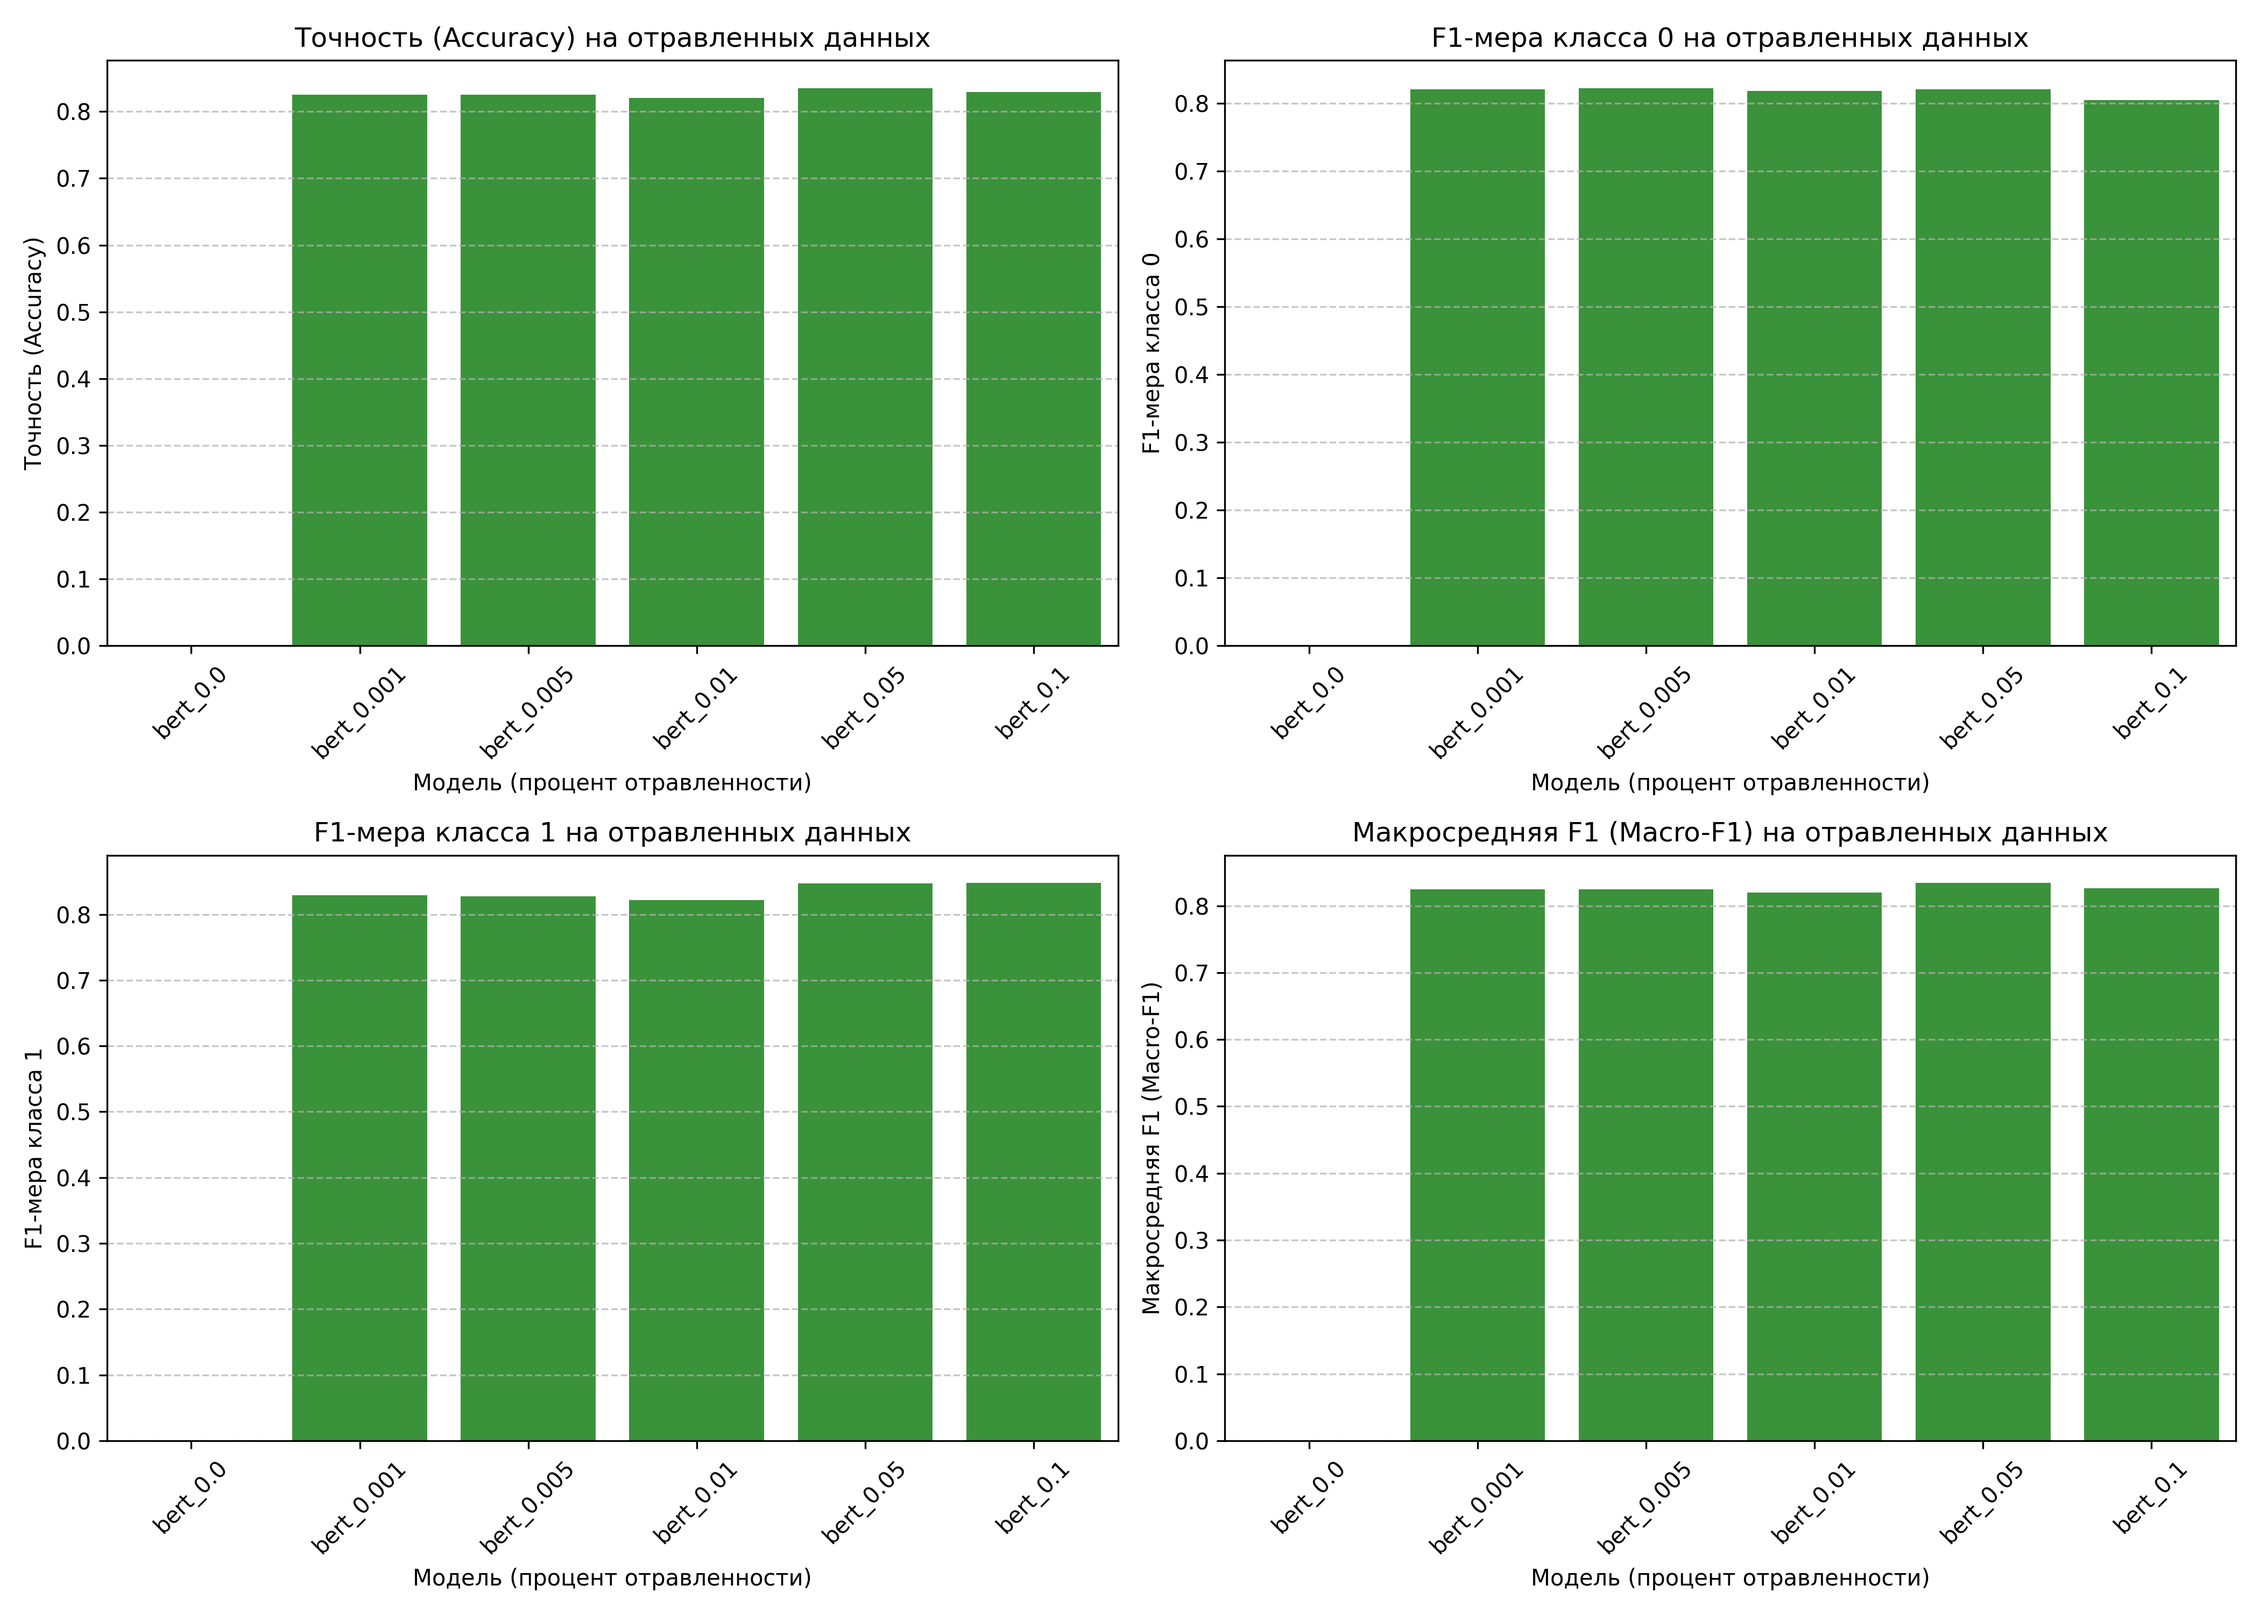
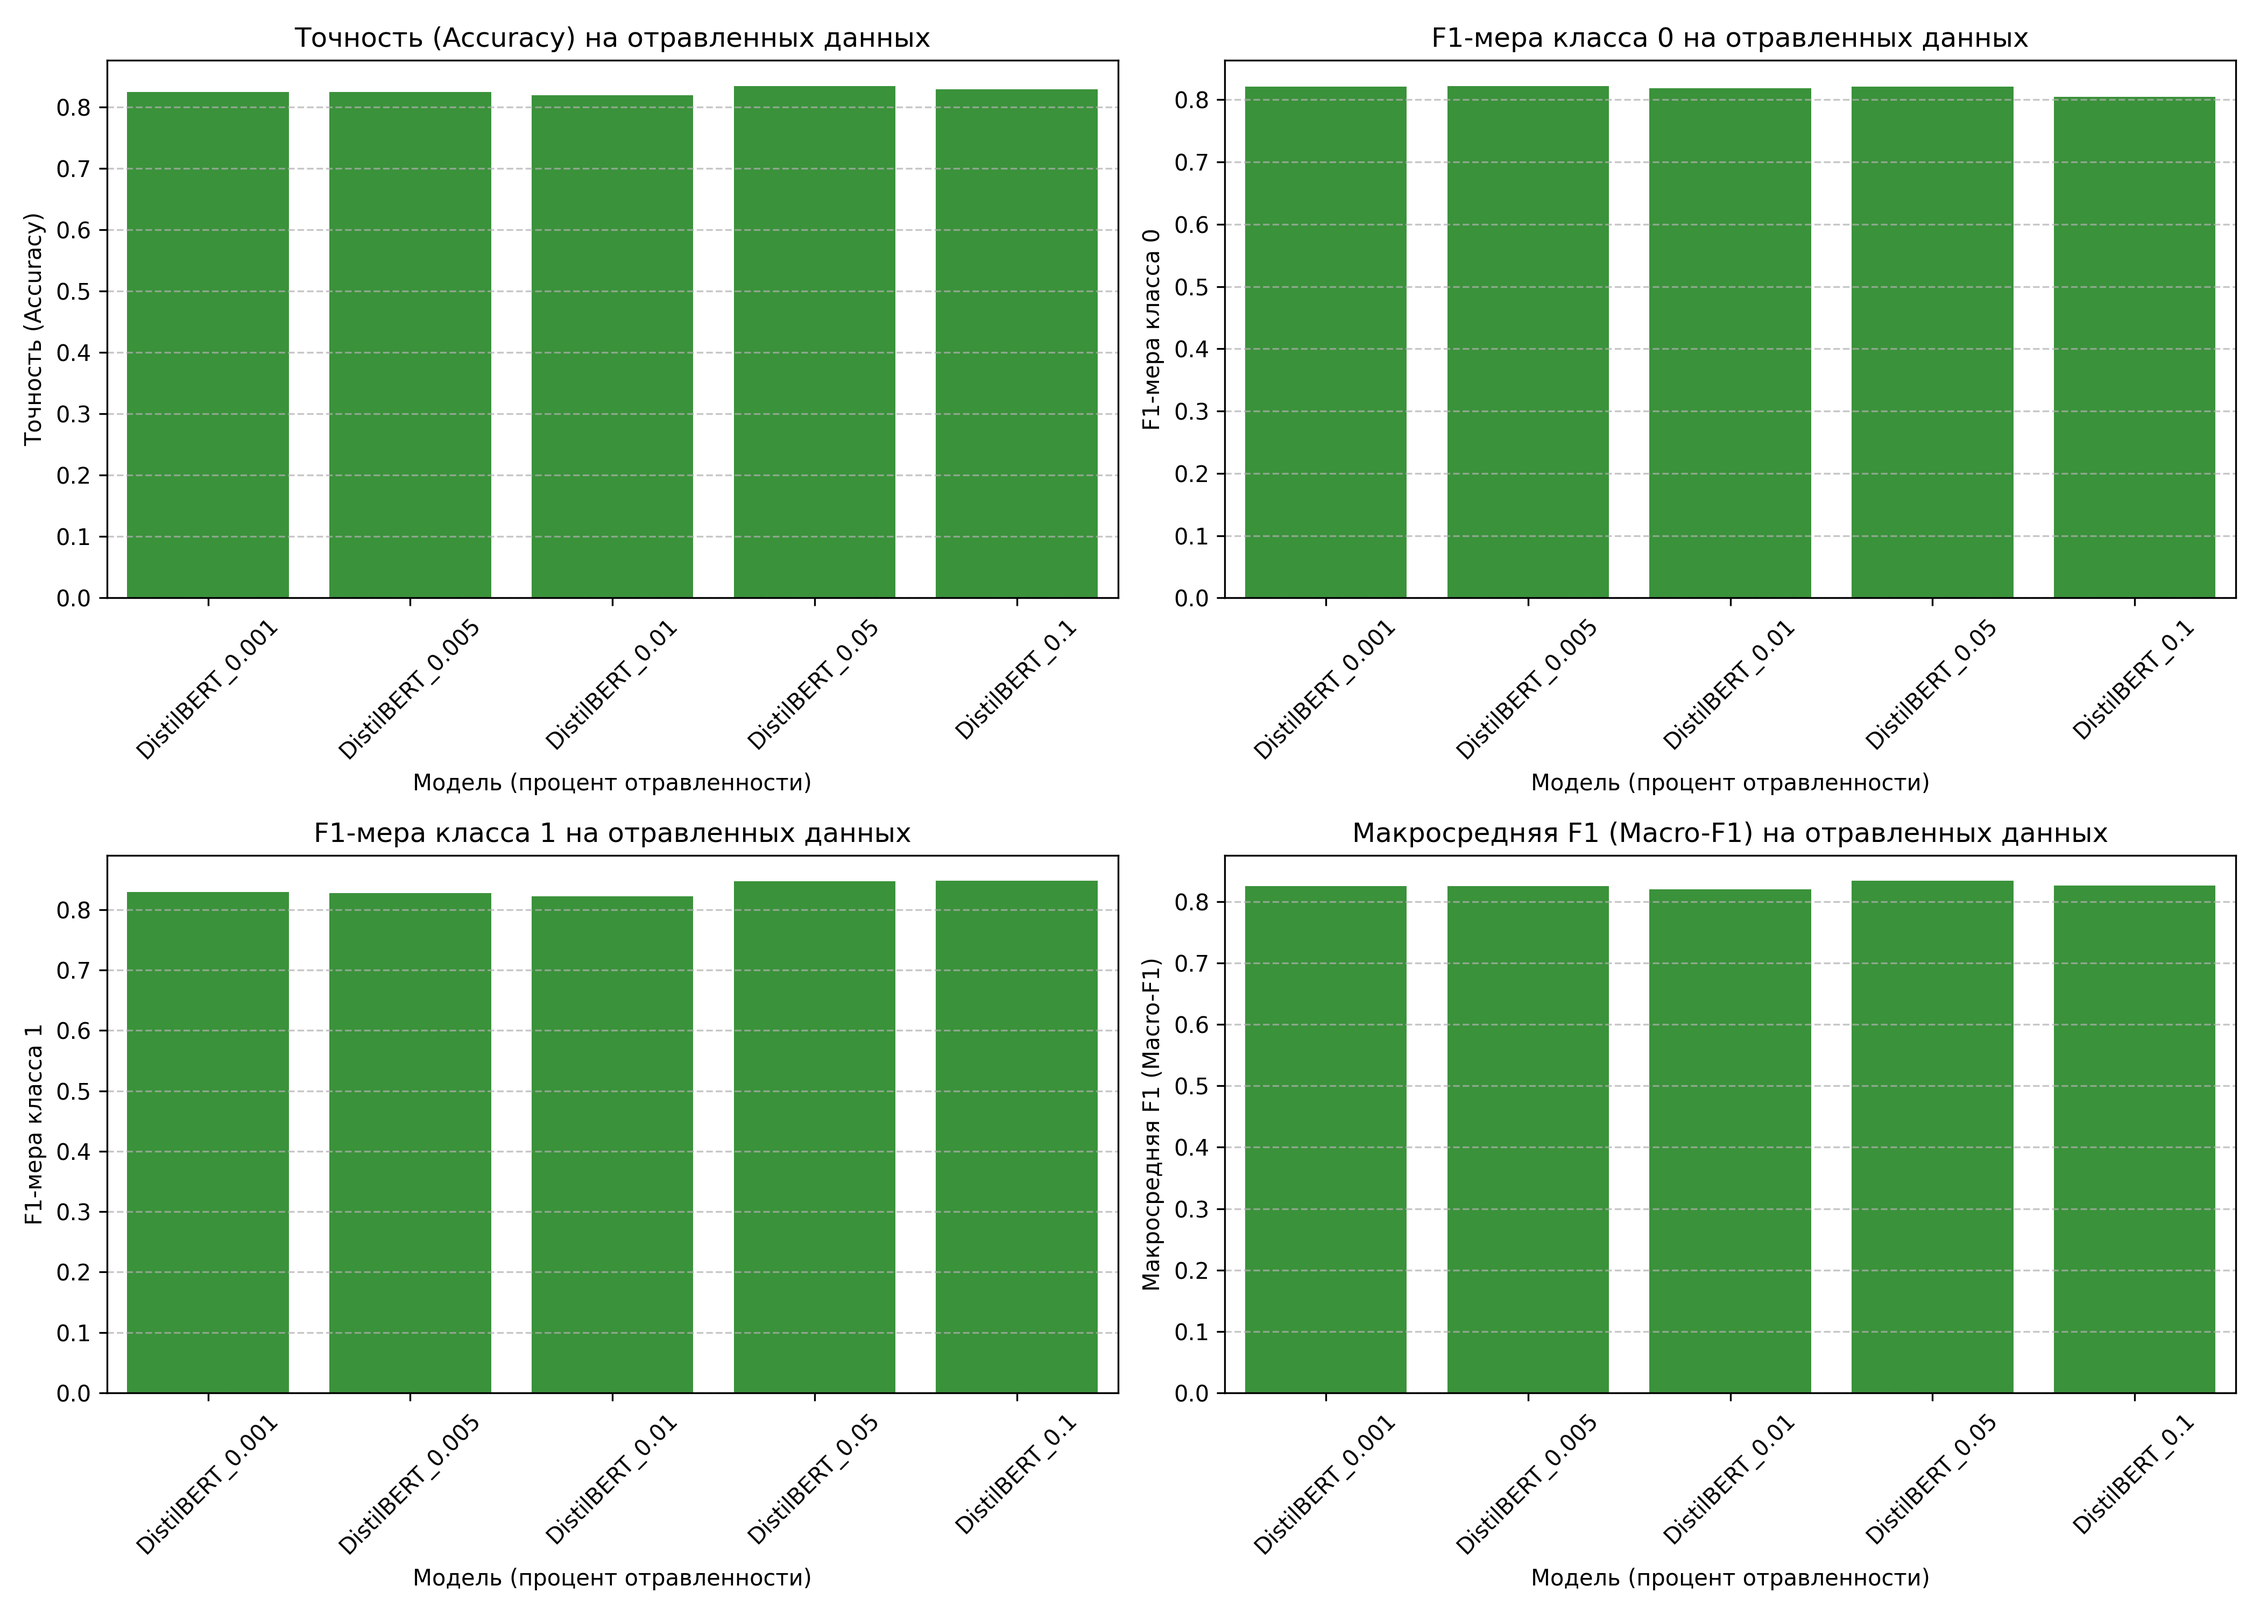
fix: added red dashed line for 0.5 and removed empty col for 0.0 poison rate

diff --git a/src/graphics/graphics.py b/src/graphics/graphics.py
@@ -34,17 +34,24 @@ class PoisoningVisualizer:
         """
         self.df = pd.read_csv(self.file_path, sep=self.sep)
 
-        def extract_poison_rate(model_name):
-            if isinstance(model_name, str):
-                match = re.search(r'poisoned_?(\d+\.\d+)', model_name)
-                if match:
-                    return float(match.group(1))
-                else:
-                    return 0
 
-        self.df['poison_rate'] = self.df['model'].apply(extract_poison_rate)
+        def extract_model_info(model_path):
+            if 'distilbert-base-uncased' in model_path:
+                family = 'DistilBERT'
+            elif 'electra-small-discriminator' in model_path:
+                family = 'ELECTRA'
+            else:
+                family = 'Unknown'
 
-        self.df['model_short'] = 'bert_' + self.df['poison_rate'].astype(str)
+            match = re.search(r'poisoned_?(\d+\.\d+)', model_path)
+            poison_rate = float(match.group(1)) if match else 0.0
+            return family, poison_rate
+
+        model_info = self.df['model'].apply(extract_model_info)
+        self.df['model_short'] = model_info.apply(lambda x: x[0])
+        self.df['poison_rate'] = model_info.apply(lambda x: x[1])
+
+        self.df['model_short'] = self.df['model_short'] + '_' + self.df['poison_rate'].astype(str)
 
         self.df['macro_f1'] = (self.df['f1_0'] + self.df['f1_1']) / 2
 
@@ -69,7 +76,7 @@ class PoisoningVisualizer:
             raise ValueError("Сначала выполните load_and_preprocess()")
 
         plt.figure(figsize=(14, 8))
-        sns.barplot(
+        ax = sns.barplot(
             x='model_short',
             y='macro_f1',
             hue='dataset_type',
@@ -86,6 +93,10 @@ class PoisoningVisualizer:
         plt.ylabel('Macro-F1')
         plt.legend(title='Тип датасета', loc='upper right')
         plt.grid(axis='y', linestyle='--', alpha=0.7)
+        a = ax.get_ygridlines()
+        b = a[5]
+        b.set_color('red')
+        b.set_linewidth(3)
         plt.tight_layout()
 
         save_path = os.path.join(self.output_dir, 'macro_f1_comparison.png')
@@ -178,8 +189,7 @@ class PoisoningVisualizer:
         """
         if self.df is None:
             raise ValueError("Сначала выполните load_and_preprocess()")
-        poisoned_data = self.df[self.df['dataset_type'] == 'poisoned']
-
+        poisoned_data = self.df[(self.df['dataset_type'] == 'poisoned') & (self.df['poison_rate'] >= 0.001)]
         plt.figure(figsize=(14, 10))
         metrics = [
             ('accuracy', 'Точность (Accuracy)'),
@@ -195,7 +205,7 @@ class PoisoningVisualizer:
                 y=col,
                 data=poisoned_data,
                 color='#2ca02c',
-                order=self.model_order
+                order=self.model_order[1:]
             )
             if self.cleaned:
                 plt.title(f'{title} на очищенных данных')
@@ -222,8 +232,8 @@ class PoisoningVisualizer:
 
 
 if __name__ == "__main__":
-    visualizer = PoisoningVisualizer('benchmarks/reports/google_cleaned.csv', sep=';',
-                                         output_dir='plots/google/metrics_cleaned', cleaned=True)
+    visualizer = PoisoningVisualizer('benchmarks/reports/bert_cleaned.csv', sep=';',
+                                         output_dir='plots/bert/metrics_cleaned', cleaned=True)
     visualizer.load_and_preprocess()
 
     visualizer.plot_all()
